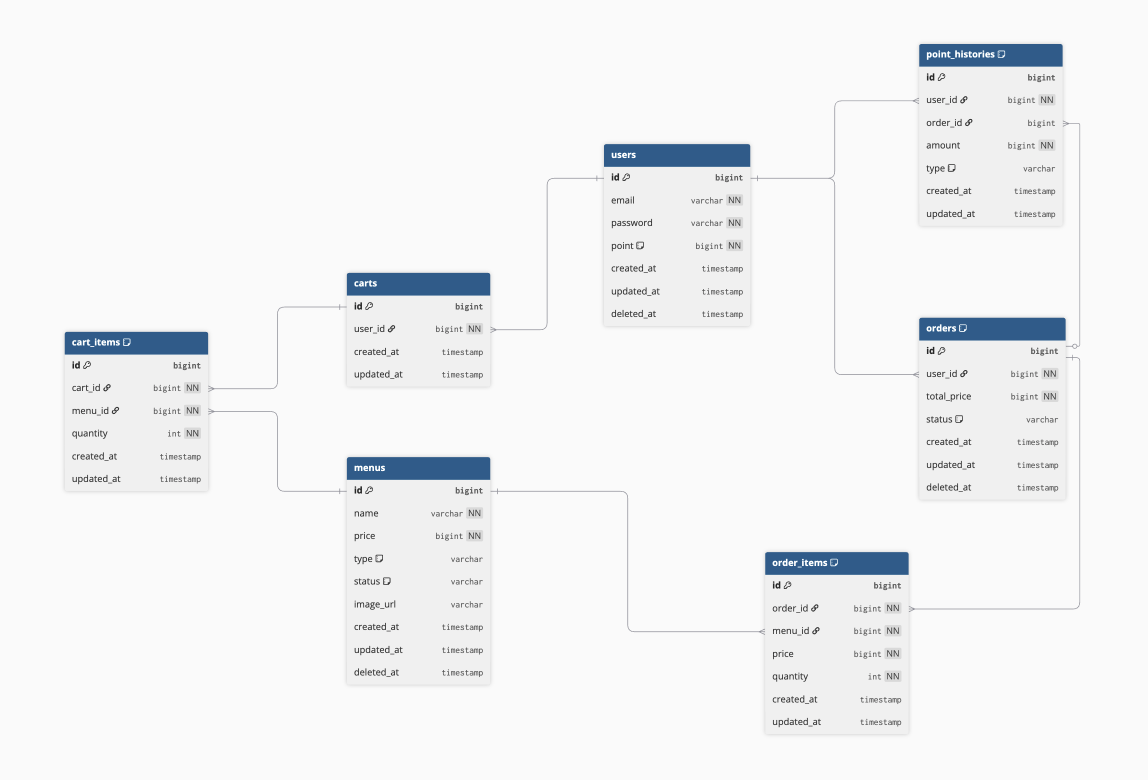
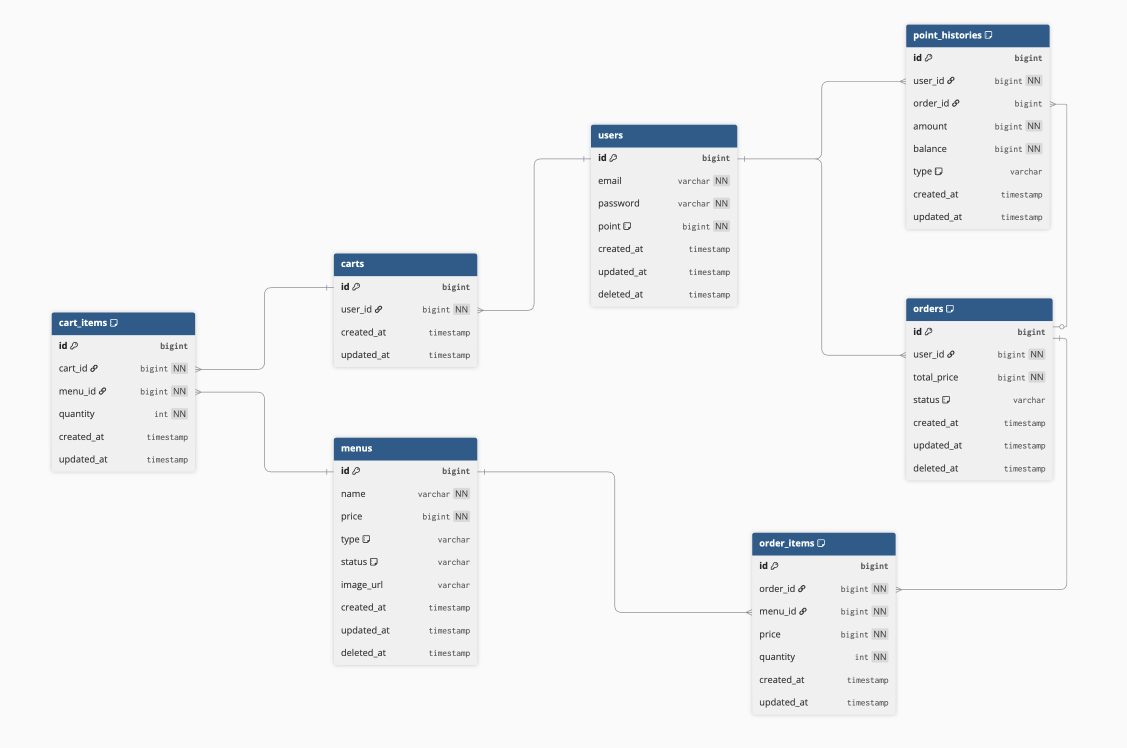
feat: point 도메인 컨트롤러와 서비스 로직 구현 & ERD 수정(PointHistory 테이블 balance 칼럼 추가), OrderService 수정

diff --git a/src/main/java/kr/spartaclub/coffeeproject/domain/point/service/PointService.java b/src/main/java/kr/spartaclub/coffeeproject/domain/point/service/PointService.java
@@ -1,0 +1,123 @@
+package kr.spartaclub.coffeeproject.domain.point.service;
+
+import kr.spartaclub.coffeeproject.common.enums.PointType;
+import kr.spartaclub.coffeeproject.common.exception.CustomException;
+import kr.spartaclub.coffeeproject.common.exception.ErrorCode;
+import kr.spartaclub.coffeeproject.common.security.AuthUser;
+import kr.spartaclub.coffeeproject.domain.point.dto.request.PointAmountRequest;
+import kr.spartaclub.coffeeproject.domain.point.dto.response.PointHistoryResponse;
+import kr.spartaclub.coffeeproject.domain.point.dto.response.PointResponse;
+import kr.spartaclub.coffeeproject.domain.point.entity.PointHistory;
+import kr.spartaclub.coffeeproject.domain.point.repository.PointHistoryRepository;
+import kr.spartaclub.coffeeproject.domain.user.entity.User;
+import kr.spartaclub.coffeeproject.domain.user.repository.UserRepository;
+import lombok.RequiredArgsConstructor;
+import lombok.extern.slf4j.Slf4j;
+import org.springframework.data.domain.Page;
+import org.springframework.data.domain.Pageable;
+import org.springframework.stereotype.Service;
+import org.springframework.transaction.annotation.Transactional;
+
+@Service
+@Slf4j
+@RequiredArgsConstructor
+public class PointService {
+
+    private static final long MIN_CHARGE_AMOUNT = 10_000L;
+    private static final long MIN_EXCHANGE_AMOUNT = 5_000L;
+    private static final long UNIT_AMOUNT = 5_000L;
+    private static final long MAX_POINT = 2_000_000L;
+
+    private final UserRepository userRepository;
+    private final PointHistoryRepository pointHistoryRepository;
+
+    // 포인트를 충전하고 현재 보유 포인트를 반환한다.
+    @Transactional
+    public PointResponse chargePoint(AuthUser authUser, PointAmountRequest request) {
+        User user = getUser(authUser);
+        Long amount = request.getAmount();
+
+        validateChargeAmount(amount);
+
+        if (user.getPoint() + amount > MAX_POINT) {
+            throw new CustomException(ErrorCode.POINT_LIMIT_EXCEEDED);
+        }
+
+        user.addPoint(amount);
+
+        pointHistoryRepository.save(
+                new PointHistory(
+                        user,
+                        null,
+                        amount,
+                        user.getPoint(),
+                        PointType.CHARGE
+                )
+        );
+
+        return new PointResponse(user.getPoint());
+    }
+
+    // 포인트를 환전하고 현재 보유 포인트를 반환한다.
+    @Transactional
+    public PointResponse exchangePoint(AuthUser authUser, PointAmountRequest request) {
+        User user = getUser(authUser);
+        Long amount = request.getAmount();
+
+        validateExchangeAmount(amount);
+
+        user.subtractPoint(amount);
+
+        pointHistoryRepository.save(
+                new PointHistory(
+                        user,
+                        null,
+                        -amount,
+                        user.getPoint(),
+                        PointType.EXCHANGE
+                )
+        );
+
+        return new PointResponse(user.getPoint());
+    }
+
+    // 현재 보유 포인트를 조회한다.
+    @Transactional(readOnly = true)
+    public PointResponse getPoint(AuthUser authUser) {
+        User user = getUser(authUser);
+        return new PointResponse(user.getPoint());
+    }
+
+    // 포인트 내역을 최신순으로 조회한다.
+    @Transactional(readOnly = true)
+    public Page<PointHistoryResponse> getPointHistories(AuthUser authUser, Pageable pageable) {
+        User user = getUser(authUser);
+
+        return pointHistoryRepository.findAllByUserOrderByCreatedAtDesc(user, pageable)
+                .map(history -> new PointHistoryResponse(
+                        history.getId(),
+                        history.getType().name(),
+                        history.getAmount(),
+                        history.getBalance(),
+                        history.getCreatedAt()
+                ));
+    }
+
+    private User getUser(AuthUser authUser) {
+        return userRepository.findById(authUser.getId())
+                .orElseThrow(() -> new CustomException(ErrorCode.USER_NOT_FOUND));
+    }
+
+    private void validateChargeAmount(Long amount) {
+        if (amount == null || amount < MIN_CHARGE_AMOUNT || amount % UNIT_AMOUNT != 0) {
+            throw new CustomException(ErrorCode.POINT_INVALID_AMOUNT);
+        }
+    }
+
+    private void validateExchangeAmount(Long amount) {
+        if (amount == null || amount < MIN_EXCHANGE_AMOUNT || amount % UNIT_AMOUNT != 0) {
+            throw new CustomException(ErrorCode.POINT_INVALID_AMOUNT);
+        }
+    }
+
+}

diff --git a/src/main/java/kr/spartaclub/coffeeproject/domain/point/controller/PointController.java b/src/main/java/kr/spartaclub/coffeeproject/domain/point/controller/PointController.java
@@ -1,0 +1,63 @@
+package kr.spartaclub.coffeeproject.domain.point.controller;
+
+import kr.spartaclub.coffeeproject.common.response.ApiResponse;
+import kr.spartaclub.coffeeproject.common.security.AuthUser;
+import kr.spartaclub.coffeeproject.domain.point.dto.request.PointAmountRequest;
+import kr.spartaclub.coffeeproject.domain.point.dto.response.PointHistoryResponse;
+import kr.spartaclub.coffeeproject.domain.point.dto.response.PointResponse;
+import kr.spartaclub.coffeeproject.domain.point.service.PointService;
+import lombok.RequiredArgsConstructor;
+import org.springframework.data.domain.Page;
+import org.springframework.data.domain.Pageable;
+import org.springframework.data.web.PageableDefault;
+import org.springframework.http.ResponseEntity;
+import org.springframework.security.core.annotation.AuthenticationPrincipal;
+import org.springframework.web.bind.annotation.*;
+
+@RestController
+@RequiredArgsConstructor
+@RequestMapping("/api/points")
+public class PointController {
+
+    private final PointService pointService;
+
+    // 포인트 충전
+    @PostMapping("/charge")
+    public ResponseEntity<ApiResponse<PointResponse>> chargePoint(
+            @AuthenticationPrincipal AuthUser authUser,
+            @RequestBody PointAmountRequest request
+    ) {
+        PointResponse response = pointService.chargePoint(authUser, request);
+        return ResponseEntity.ok(ApiResponse.success("포인트 충전이 완료되었습니다.", response));
+    }
+
+    // 포인트 환전
+    @PostMapping("/exchange")
+    public ResponseEntity<ApiResponse<PointResponse>> exchangePoint(
+            @AuthenticationPrincipal AuthUser authUser,
+            @RequestBody PointAmountRequest request
+    ) {
+        PointResponse response = pointService.exchangePoint(authUser, request);
+        return ResponseEntity.ok(ApiResponse.success("포인트 환전이 완료되었습니다.", response));
+    }
+
+    // 현재 포인트 조회
+    @GetMapping
+    public ResponseEntity<ApiResponse<PointResponse>> getPoint(
+            @AuthenticationPrincipal AuthUser authUser
+    ) {
+        PointResponse response = pointService.getPoint(authUser);
+        return ResponseEntity.ok(ApiResponse.success("포인트 조회 성공", response));
+    }
+
+    // 포인트 내역 조회
+    @GetMapping("/histories")
+    public ResponseEntity<ApiResponse<Page<PointHistoryResponse>>> getPointHistories(
+            @AuthenticationPrincipal AuthUser authUser,
+            @PageableDefault(size = 10) Pageable pageable
+    ) {
+        Page<PointHistoryResponse> response = pointService.getPointHistories(authUser, pageable);
+        return ResponseEntity.ok(ApiResponse.success("포인트 내역 조회 성공", response));
+    }
+
+}

diff --git a/src/main/java/kr/spartaclub/coffeeproject/domain/point/entity/PointHistory.java b/src/main/java/kr/spartaclub/coffeeproject/domain/point/entity/PointHistory.java
@@ -33,6 +33,10 @@ public class PointHistory extends BaseEntity {
     @Column(nullable = false)
     private Long amount;
 
+    // 처리 후 잔액
+    @Column(nullable = false)
+    private Long balance;
+
     // 포인트 이력 타입
     @Enumerated(EnumType.STRING)
     @Column(nullable = false, length = 20)
@@ -42,10 +46,11 @@ public class PointHistory extends BaseEntity {
     // 생성자
     // ==========================
 
-    public PointHistory(User user, Order order, Long amount, PointType type) {
+    public PointHistory(User user, Order order, Long amount, Long balance, PointType type) {
         this.user = user;
         this.order = order;
         this.amount = amount;
+        this.balance = balance;
         this.type = type;
     }
 

diff --git a/src/main/java/kr/spartaclub/coffeeproject/domain/point/repository/PointHistoryRepository.java b/src/main/java/kr/spartaclub/coffeeproject/domain/point/repository/PointHistoryRepository.java
@@ -1,7 +1,14 @@
 package kr.spartaclub.coffeeproject.domain.point.repository;
 
 import kr.spartaclub.coffeeproject.domain.point.entity.PointHistory;
+import kr.spartaclub.coffeeproject.domain.user.entity.User;
+import org.springframework.data.domain.Page;
+import org.springframework.data.domain.Pageable;
 import org.springframework.data.jpa.repository.JpaRepository;
 
 public interface PointHistoryRepository extends JpaRepository<PointHistory, Long> {
+
+    // 현재 사용자의 포인트 내역을 최신순으로 조회
+    Page<PointHistory> findAllByUserOrderByCreatedAtDesc(User user, Pageable pageable);
+
 }

diff --git a/src/main/java/kr/spartaclub/coffeeproject/domain/order/service/OrderService.java b/src/main/java/kr/spartaclub/coffeeproject/domain/order/service/OrderService.java
@@ -128,6 +128,7 @@ public class OrderService {
                         user,
                         order,
                         -order.getTotalPrice(),
+                        user.getPoint(),
                         PointType.USE
                 )
         );
@@ -202,6 +203,7 @@ public class OrderService {
                             user,
                             order,
                             order.getTotalPrice(),
+                            user.getPoint(),
                             PointType.REFUND
                     )
             );

diff --git a/src/main/java/kr/spartaclub/coffeeproject/domain/point/dto/response/PointHistoryResponse.java b/src/main/java/kr/spartaclub/coffeeproject/domain/point/dto/response/PointHistoryResponse.java
@@ -1,0 +1,18 @@
+package kr.spartaclub.coffeeproject.domain.point.dto.response;
+
+import lombok.AllArgsConstructor;
+import lombok.Getter;
+
+import java.time.LocalDateTime;
+
+@Getter
+@AllArgsConstructor
+public class PointHistoryResponse {
+
+    private Long historyId;
+    private String type;
+    private Long amount;
+    private Long balance;
+    private LocalDateTime createdAt;
+
+}

diff --git a/src/main/java/kr/spartaclub/coffeeproject/domain/point/dto/request/PointAmountRequest.java b/src/main/java/kr/spartaclub/coffeeproject/domain/point/dto/request/PointAmountRequest.java
@@ -1,0 +1,12 @@
+package kr.spartaclub.coffeeproject.domain.point.dto.request;
+
+import jakarta.validation.constraints.NotNull;
+import lombok.Getter;
+
+@Getter
+public class PointAmountRequest {
+
+    @NotNull(message = "금액은 필수입니다.")
+    private Long amount;
+
+}

diff --git a/src/main/java/kr/spartaclub/coffeeproject/domain/point/dto/response/PointResponse.java b/src/main/java/kr/spartaclub/coffeeproject/domain/point/dto/response/PointResponse.java
@@ -1,0 +1,12 @@
+package kr.spartaclub.coffeeproject.domain.point.dto.response;
+
+import lombok.AllArgsConstructor;
+import lombok.Getter;
+
+@Getter
+@AllArgsConstructor
+public class PointResponse {
+
+    private Long currentPoint;
+
+}
